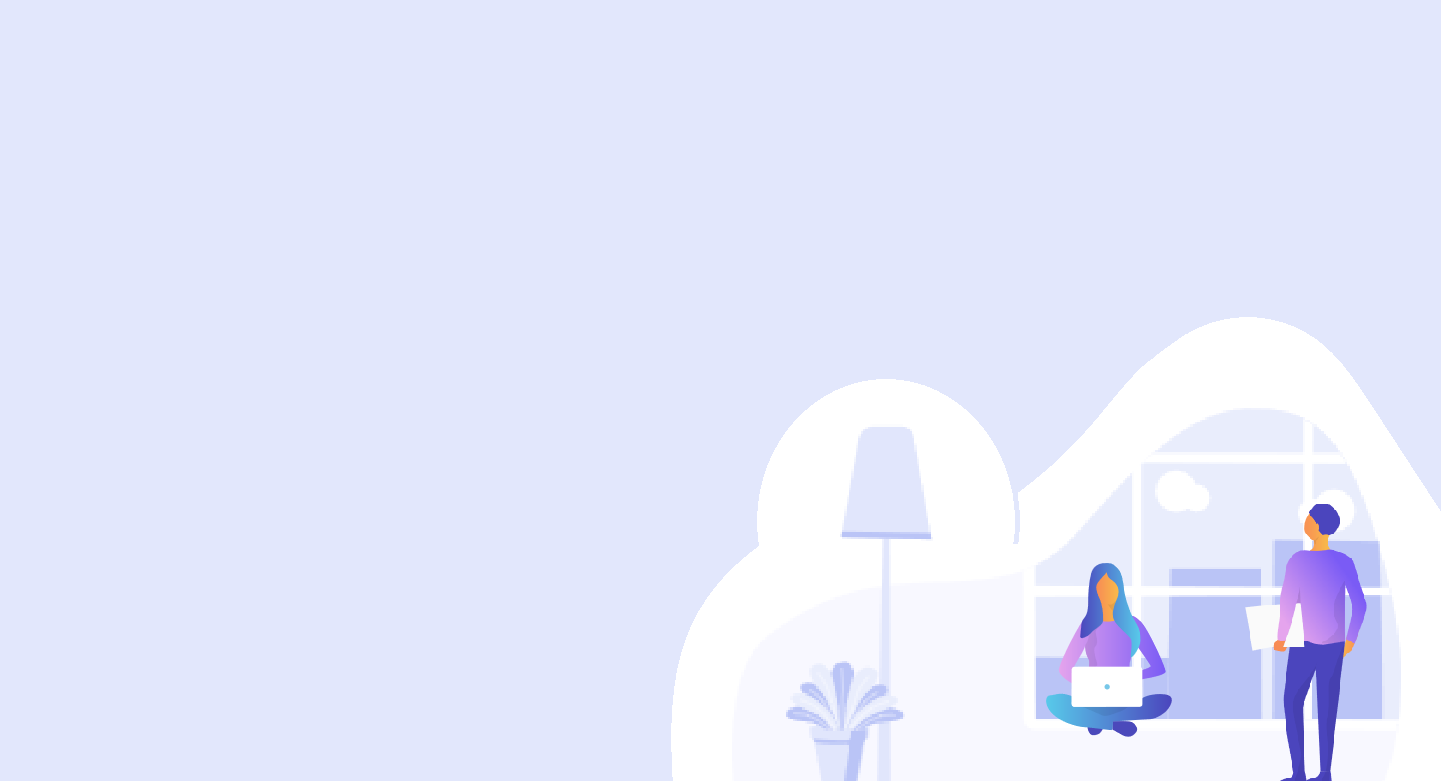
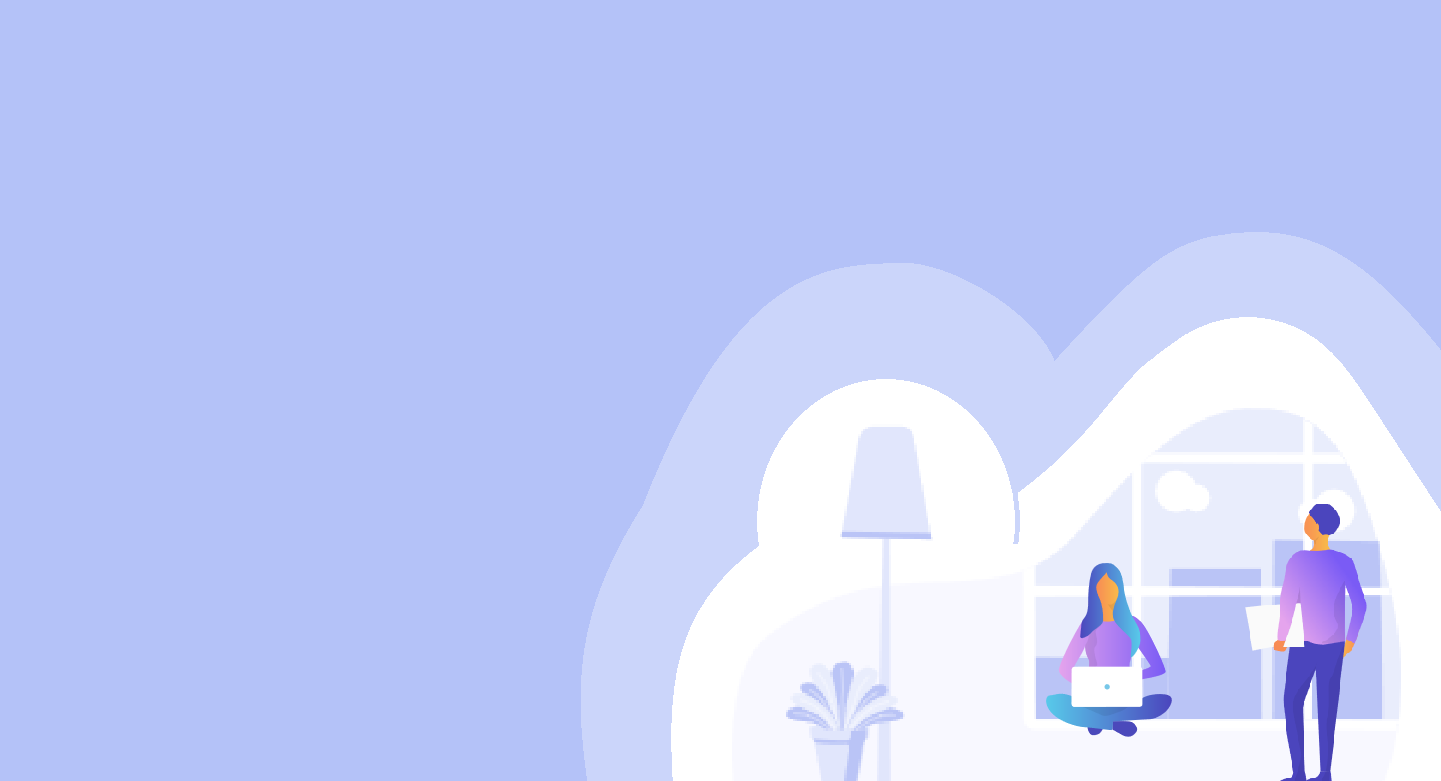
Change login page's background's filter color

diff --git a/src/views/examples/LoginPage.js b/src/views/examples/LoginPage.js
@@ -51,7 +51,7 @@ function LoginPage() {
   return (
     <>
       <NavbarLogin />
-      <div className="page-header" >
+      <div className="page-header clear-filter" filter-color="blue" >
         <div
           className="page-header-image"
           style={{
@@ -127,7 +127,7 @@ function LoginPage() {
             </Col>
           </Container>
         </div>
-            <Navbar style={{ backgroundColor: "#00ccff", opacity: 0.5}} >
+            <Navbar style={{ backgroundColor: "#00ccff", opacity: 0.65}} >
               <Container>
                 <div className="navbar-translate">
                   <NavbarBrand
@@ -188,5 +188,13 @@ function LoginPage() {
 }
 
 const styles={
+  background:{
+    position: "absolute",
+    backgroundSize: "cover",
+    backgroundPosition: "center center",
+    width: "100%",
+    height: "100%",
+    zIndex: -1,
+  }
 }
 export default LoginPage;

diff --git a/src/components/Headers/IndexHeader.js b/src/components/Headers/IndexHeader.js
@@ -49,4 +49,5 @@ function IndexHeader() {
   );
 }
 
+
 export default IndexHeader;
